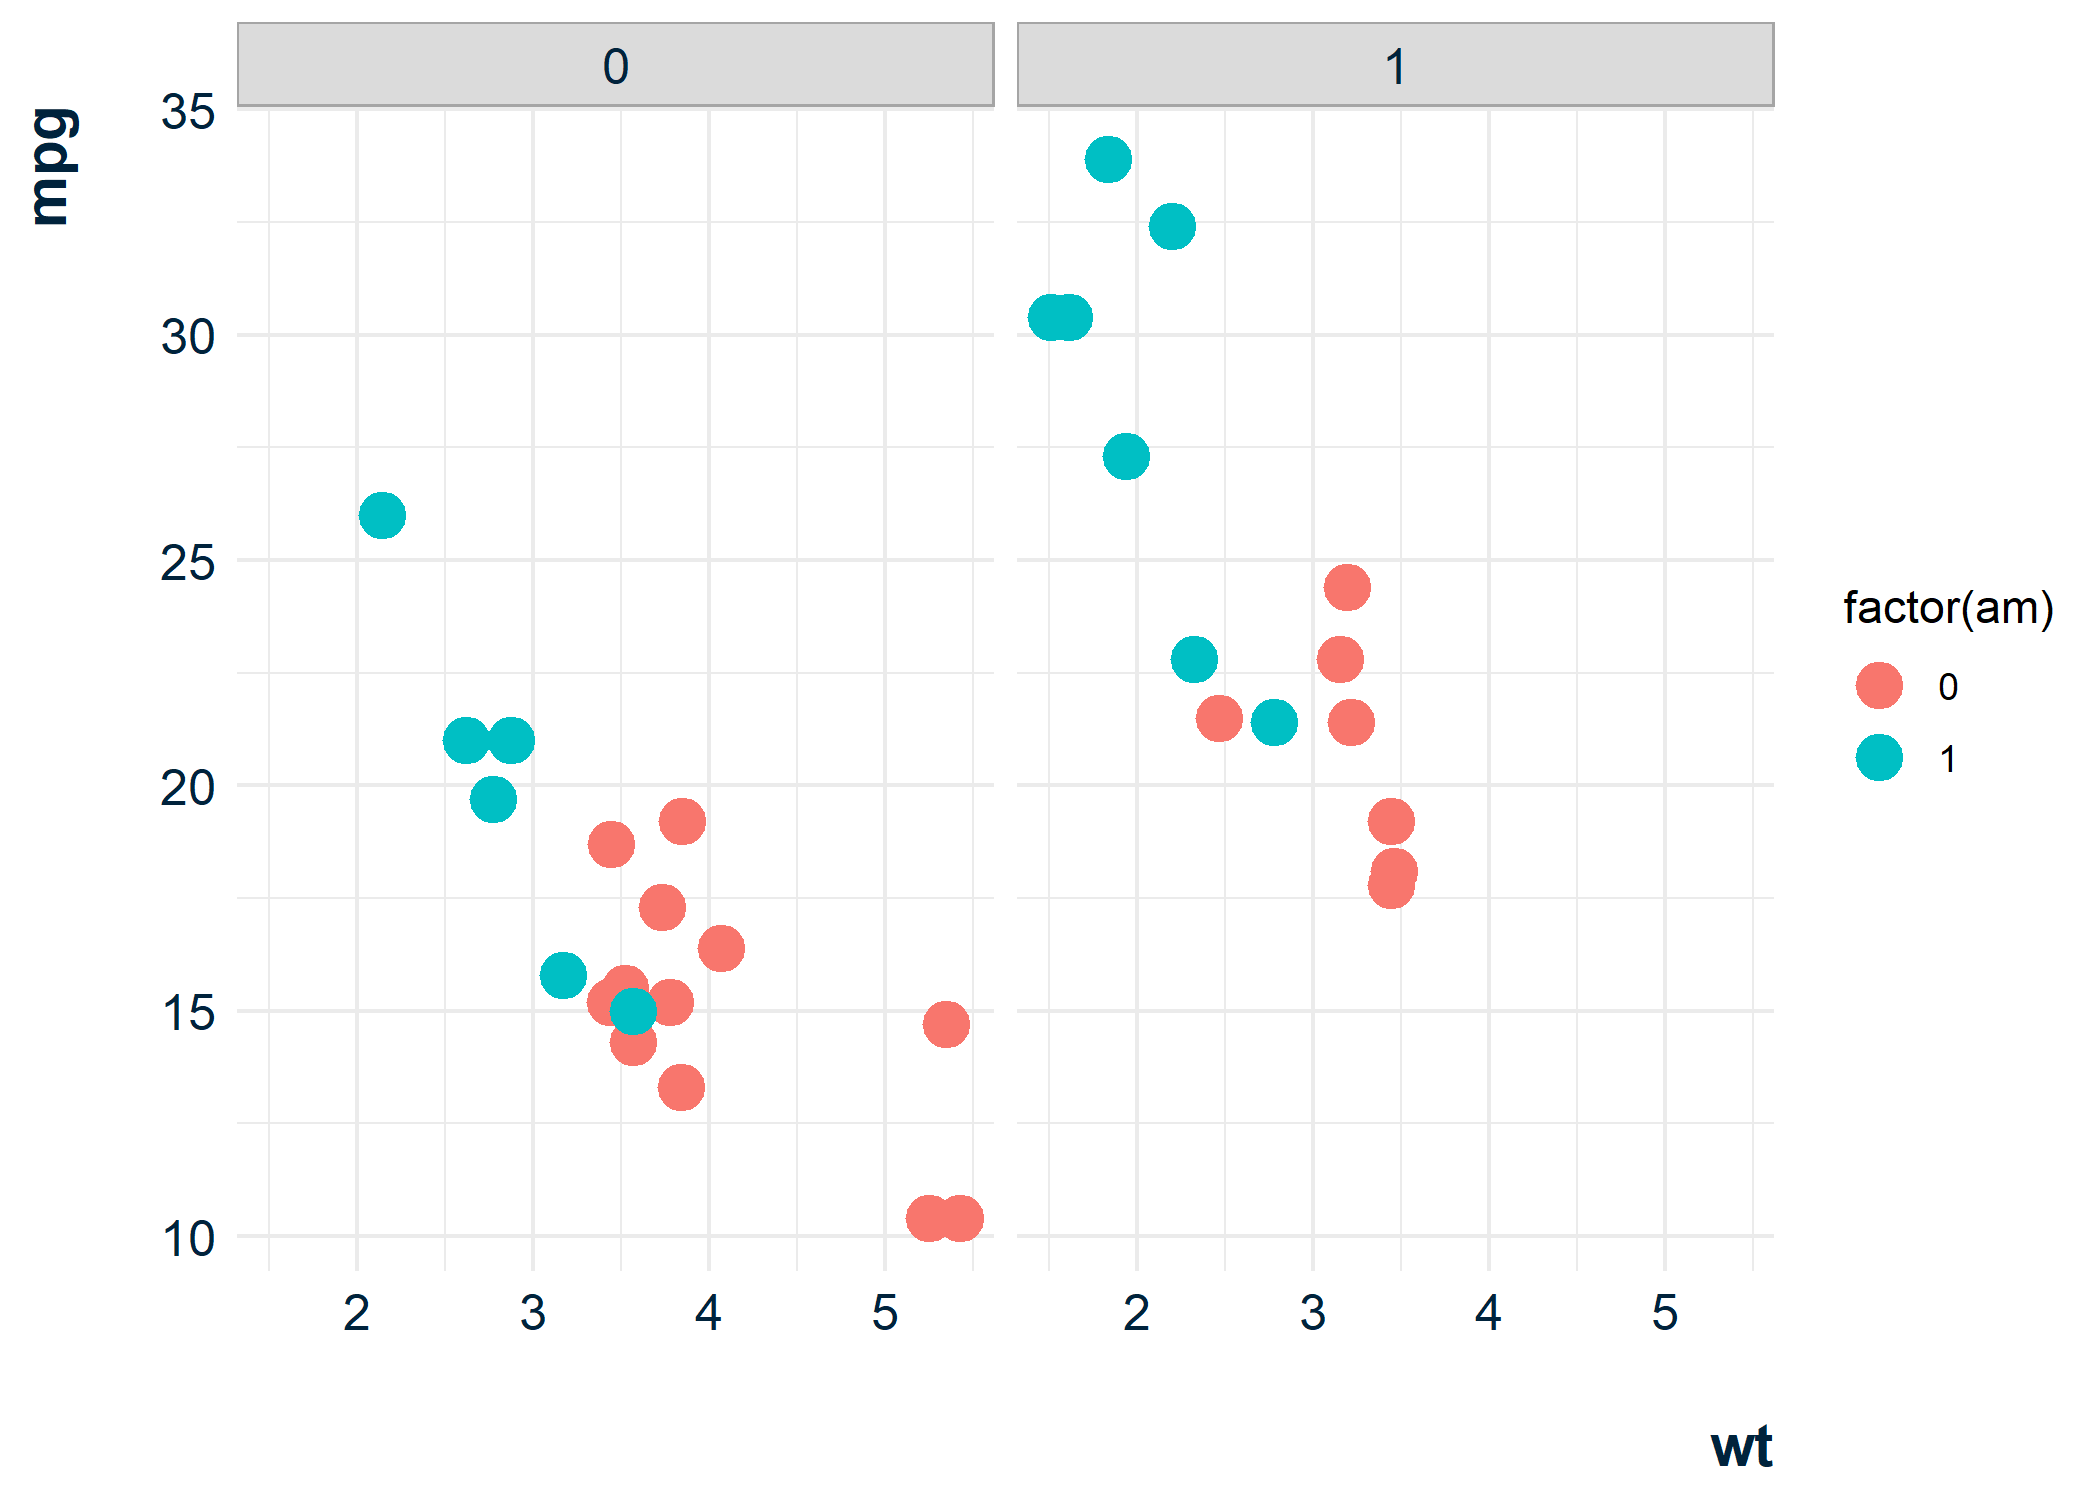
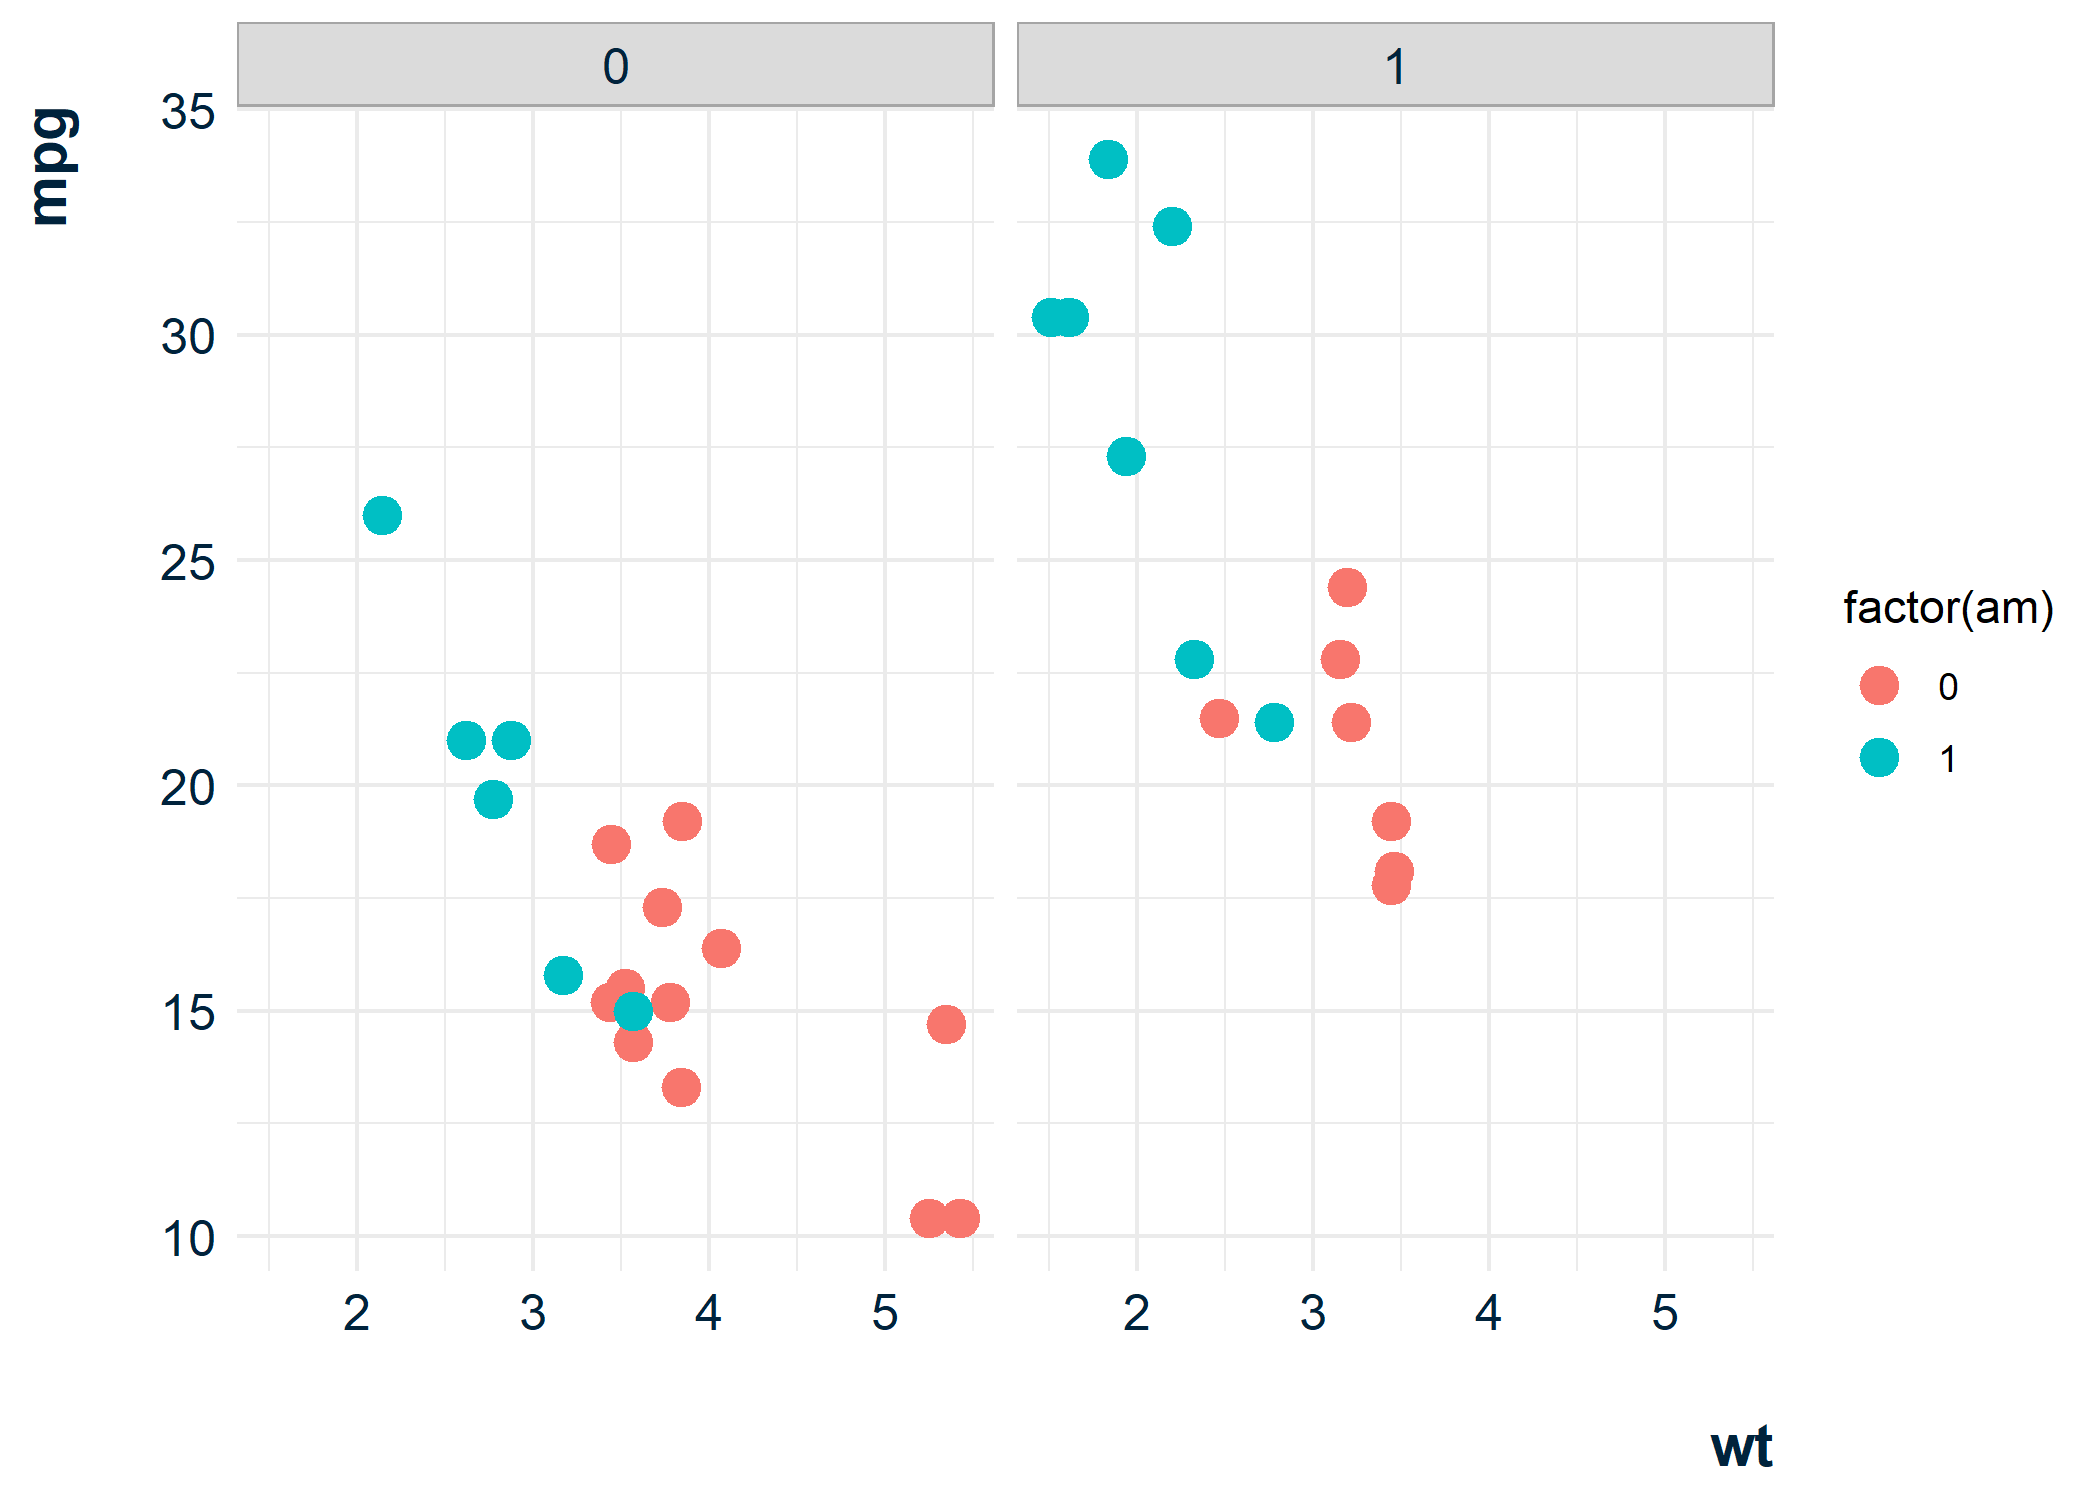
readme

diff --git a/README.md b/README.md
@@ -51,7 +51,7 @@ whether a legend is included and defaulting to `TRUE` (with
 ggplot(mtcars, aes(x = wt,
                    y = mpg,
                    color = factor(am))) +
-  geom_point(size = 5) +
+  geom_point(size = 4) +
   facet_wrap(~ vs) +
   dsb_style()
 ```
@@ -65,7 +65,7 @@ be overwritten by adding `theme()` elements after `dsb_style()`:
 ggplot(mtcars, aes(x = wt,
                    y = mpg,
                    color = factor(am))) +
-  geom_point(size = 5) +
+  geom_point(size = 4) +
   facet_wrap(~ vs) +
   dsb_style() +
   theme(legend.position = "bottom")
@@ -112,7 +112,7 @@ function:
 ``` r
 ggplot(mtcars, aes(x = wt,
                    y = mpg)) +
-  geom_point(size = 5,
+  geom_point(size = 4,
              color = getElement(dsb_colvec(), "DSB_Red")) +
   facet_wrap(~ vs) +
   dsb_style()
@@ -127,7 +127,7 @@ the `getElement()` function:
 ggplot(mtcars, aes(x = wt,
                    y = mpg,
                    color = factor(am))) +
-  geom_point(size = 5) +
+  geom_point(size = 4) +
   facet_wrap(~ vs) +
   dsb_style() +
   scale_colour_manual(values = c(getElement(dsb_colvec(), "DSB_Red"), 
@@ -170,7 +170,7 @@ p1 <-
   ggplot(mtcars, aes(x = wt,
                      y = mpg,
                      color = factor(am))) +
-  geom_point(size = 5) +
+  geom_point(size = 4) +
   facet_wrap(~ vs) +
   dsb_style() +
   color_dsb_d()
@@ -180,7 +180,7 @@ p2 <-
   ggplot(mtcars, aes(x = wt,
                      y = mpg,
                      color = disp)) +
-  geom_point(size = 5) +
+  geom_point(size = 4) +
   facet_wrap(~ vs) +
   dsb_style() +
   color_dsb_c()
@@ -213,7 +213,7 @@ p1 <-
   ggplot(mtcars, aes(x = wt,
                          y = mpg,
                          color = disp)) +
-  geom_point(size = 5) +
+  geom_point(size = 4) +
   facet_wrap(~ vs) +
   dsb_style() +
   color_dsb_c(palette = "greens")
@@ -222,7 +222,7 @@ p2 <-
   ggplot(mtcars, aes(x = wt,
                          y = mpg,
                          color = disp)) +
-  geom_point(size = 5) +
+  geom_point(size = 4) +
   facet_wrap(~ vs) +
   dsb_style() +
   color_dsb_c(palette = "greens",
@@ -255,3 +255,5 @@ for details on additional arguments.
   - Garrick Aden-Buie ([gadenbuie](https://github.com/gadenbuie)) and Dr
     Simon Jackson ([drsimonj](https://github.com/drsimonj)) for
     inspiration
+  - Steffen Bank ([steffenbank](https://github.com/steffenbank)) for
+    convincing me to finally try to write my own `R` package
